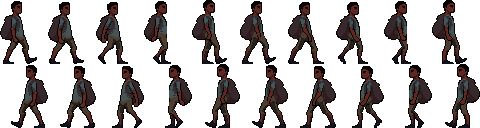
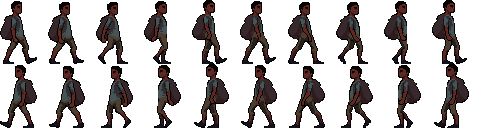
Fine tune tourists

Changed region(s): [[0.0, 0.5, 1.0, 1.0]]

diff --git a/Safari/Safari/Source/Objects/Entities/Tourists/Tourist.cs b/Safari/Safari/Source/Objects/Entities/Tourists/Tourist.cs
@@ -7,6 +7,7 @@ using Safari.Objects.Entities.Animals;
 using Safari.Scenes;
 using System;
 using System.Collections.Generic;
+using System.ComponentModel.Design;
 
 namespace Safari.Objects.Entities.Tourists;
 
@@ -18,7 +19,7 @@ public enum TouristState {
 };
 
 public class Tourist : Entity {
-	private static double[] recentRatings = new double[50];
+	private static double[] recentRatings = new double[360];
 	private static int ratingCount = 0;
 	public static EntitySpawner<Tourist> Spawner { get; set; }
 	public static List<Tourist> Queue { get; private set; } = new List<Tourist>();
@@ -33,9 +34,12 @@ public class Tourist : Entity {
 	private int reachedQueueIndex = -1;
 	private bool shouldDraw = true;
 	private int payedAmount = 0;
-	private double rating = 3f;
+	private double rating = 2.5f;
 	private int moneyThreshold;
 	private AnimalSpecies favSpecies;
+	private float xOffset;
+	private bool preferStandingRight = true;
+	private DateTime nextSwitch;
 
 	/// <summary>
 	/// The animated sprite component of the ranger
@@ -52,7 +56,7 @@ public class Tourist : Entity {
 	/// </summary>
 	public static Point PickupSpot { get; set; }
 	public static Level CurrentLevel => GameScene.Active.Model.Level;
-	public static double QueueOffset => CurrentLevel.TileSize / 2;
+	public static double QueueOffset => CurrentLevel.TileSize / 1.23;
 
 	/// <summary>
 	/// The average rating of the park based on the 30 newest ratings by tourist
@@ -65,27 +69,25 @@ public class Tourist : Entity {
 				sum += recentRatings[i];
 			}
 			int remaining = recentRatings.Length - ratingCount;
-			sum += remaining * 2.5f;
+			sum += remaining * 2f;
 			return sum / recentRatings.Length;
 		}
 	}
 
-	public const double SPAWN_LOWER = 0.35f;
-	public const double SPAWN_UPPER = 0.9f;
+	public const int milestoneCount = 12;
+	public static double[] milestones = new double[milestoneCount] {1.0, 2.0, 2.5, 3.0, 3.3, 3.7, 4.0, 4.2, 4.4, 4.6, 4.8, 5.0};
+	public static double[] spawnRates = new double[milestoneCount] { 0.4, 0.7, 1.0, 1.5, 1.9, 2.5, 3.2, 4.2, 5.1, 6.0, 7.0, 8.0 };
 	public static double SpawnRate {
 		get {
 			// base spawn rate -> lerp
-			double spawnRate = SPAWN_LOWER + (SPAWN_UPPER - SPAWN_LOWER) * (AvgRating / 5.0f);
-			if (AvgRating >= 3f) {
-				spawnRate += 0.1f;
+			int i = 1;
+			for (i = 1; i < milestoneCount - 1; i++) {
+				if (AvgRating < milestones[i]) {
+					break;
+				}
 			}
-			if (AvgRating >= 4f) {
-				spawnRate += 0.15f;
-			}
-			if (AvgRating >= 4.75f) {
-				spawnRate += 0.25f;
-			}
-			return spawnRate;
+			double factor = (AvgRating - milestones[i - 1]) / (milestones[i] - milestones[i - 1]);
+			return spawnRates[i - 1] + factor * (spawnRates[i] - spawnRates[i - 1]);
 		}
 	}
 
@@ -130,12 +132,14 @@ public class Tourist : Entity {
 			animSprite = new(Game.ContentManager.Load<Texture2D>("Assets/Tourist/Man/Walk"), 10, 2, 8);
 			animSprite.Animations["walk-right"] = new Animation(0, 10, true);
 			animSprite.Animations["walk-left"] = new Animation(1, 10, true);
-			animSprite.Animations["idle"] = new Animation(0, 1, true, 8);
+			animSprite.Animations["idle-right"] = new Animation(0, 1, true, 8);
+			animSprite.Animations["idle-left"] = new Animation(1, 1, true, 8);
 		} else {
 			animSprite = new(Game.ContentManager.Load<Texture2D>("Assets/Tourist/Woman/Walk"), 8, 2, 10);
 			animSprite.Animations["walk-right"] = new Animation(0, 8, true);
 			animSprite.Animations["walk-left"] = new Animation(1, 8, true);
-			animSprite.Animations["idle"] = new Animation(0, 1, true, 4);
+			animSprite.Animations["idle-right"] = new Animation(0, 1, true, 4);
+			animSprite.Animations["idle-left"] = new Animation(1, 1, true, 4);
 		}
 		Sprite = animSprite;
 		Sprite.LayerDepth = Animal.ANIMAL_LAYER;
@@ -147,7 +151,8 @@ public class Tourist : Entity {
 		favSpecies = (AnimalSpecies)values.GetValue(rand.Next(values.Length));
 		moneyThreshold = rand.Next(5, 11) * 100;
 		Attach(Sprite);
-		animSprite.CurrentAnimation = "idle";
+		animSprite.CurrentAnimation = "idle-right";
+		xOffset = (float)rand.NextDouble() * 24f - 12f;
 
 		NavCmp.AccountForBounds = false;
 		NavCmp.Speed = 60f;
@@ -179,7 +184,10 @@ public class Tourist : Entity {
 				AnimatedSprite.CurrentAnimation = anim;
 			}
 		} else {
-			AnimatedSprite.CurrentAnimation = "idle";
+			string anim = $"idle-{(preferStandingRight ? "right" : "left")}";
+			if (!AnimatedSprite.IsPlaying || AnimatedSprite.CurrentAnimation != anim) {
+				AnimatedSprite.CurrentAnimation = anim;
+			}
 		}
 
 		if (StateMachine.CurrentState == TouristState.Entering || StateMachine.CurrentState == TouristState.InQueue) {
@@ -225,6 +233,11 @@ public class Tourist : Entity {
 		}
 	}
 
+	[StateBegin(TouristState.InQueue)]
+	public void BeginInQueue() {
+		nextSwitch = GameScene.Active.Model.IngameDate + TimeSpan.FromMinutes(rand.NextDouble() * 30 + 10.0);
+	}
+
 	private void OnReadyToFill(object sender, EventArgs e) => TryEntering();
 
 	private bool TryEntering() {
@@ -249,10 +262,16 @@ public class Tourist : Entity {
 			NavCmp.Moving = true;
 			NavCmp.ReachedTarget += ReachedQueueSpot;
 		}
+		
+		DateTime now = GameScene.Active.Model.IngameDate;
+		if (now >= nextSwitch) {
+			preferStandingRight = !preferStandingRight;
+			nextSwitch = now + TimeSpan.FromMinutes(rand.NextDouble() * 11 + 6);
+		}
 	}
 
 	private Vector2 GetQueueSpot(int index) {
-		return CurrentLevel.GetTileCenter(PickupSpot) + (new Vector2(0, -1.0f * index * (float)QueueOffset));
+		return CurrentLevel.GetTileCenter(PickupSpot) + (new Vector2(0, -1.0f * index * (float)QueueOffset)) + new Vector2(1.0f, 0) * xOffset;
 	}
 
 	[StateBegin(TouristState.InJeep)]

diff --git a/Safari/Safari/Source/Objects/Entities/Tourists/Jeep.cs b/Safari/Safari/Source/Objects/Entities/Tourists/Jeep.cs
@@ -40,12 +40,11 @@ public class Jeep : Entity {
 	/// <summary>
 	/// The number of jeeps the player starts out with
 	/// </summary>
-	public const int STARTING_JEEPS = 2;
+	public const int STARTING_JEEPS = 1;
 	/// <summary>
 	/// Once the hours specified here have passed, a jeep can start its journey even if its not full
-	/// This also means that nighttime - MAX_WAITING_HOURS is the last time a jeep can start gathering tourists
 	/// </summary>
-	public const double MAX_WAITING_HOURS = 6;
+	public const double MAX_WAITING_HOURS = 4;
 
 	private List<Tourist> occupants = new List<Tourist>();
 	private static Queue<Jeep> garage = new Queue<Jeep>();
@@ -288,6 +287,7 @@ public class Jeep : Entity {
 				SomeoneWaitingForJeep = false;
 			} else {
 				SomeoneWaitingForJeep = false;
+				garage.Enqueue(this);
 			}
 		} else {
 			garage.Enqueue(this);

diff --git a/Safari/Safari/Source/Model/GameModel.cs b/Safari/Safari/Source/Model/GameModel.cs
@@ -343,7 +343,7 @@ public class GameModel {
 		};
 		Game.AddObject(poacherSpawner);
 
-		Tourist.Spawner = new(.2f, 0.65f, 0.1f) {
+		Tourist.Spawner = new(.2f, 0.6f, 0.05f) {
 			EntityLimit = 30,
 			EntityCount = () => Tourist.Queue.Count,
 			SpawnArea = new Rectangle(-64, 512, 32, 320),
@@ -409,6 +409,7 @@ public class GameModel {
 
 		// Tourist debug stuff
 		DebugInfoManager.AddInfo("Average rating", Tourist.AvgRating + "", DebugInfoPosition.BottomRight);
+		DebugInfoManager.AddInfo("Tourists pawn / hour", Tourist.SpawnRate + "", DebugInfoPosition.BottomRight);
 	}
 
 	private void TriggerLose(LoseReason reason) {
